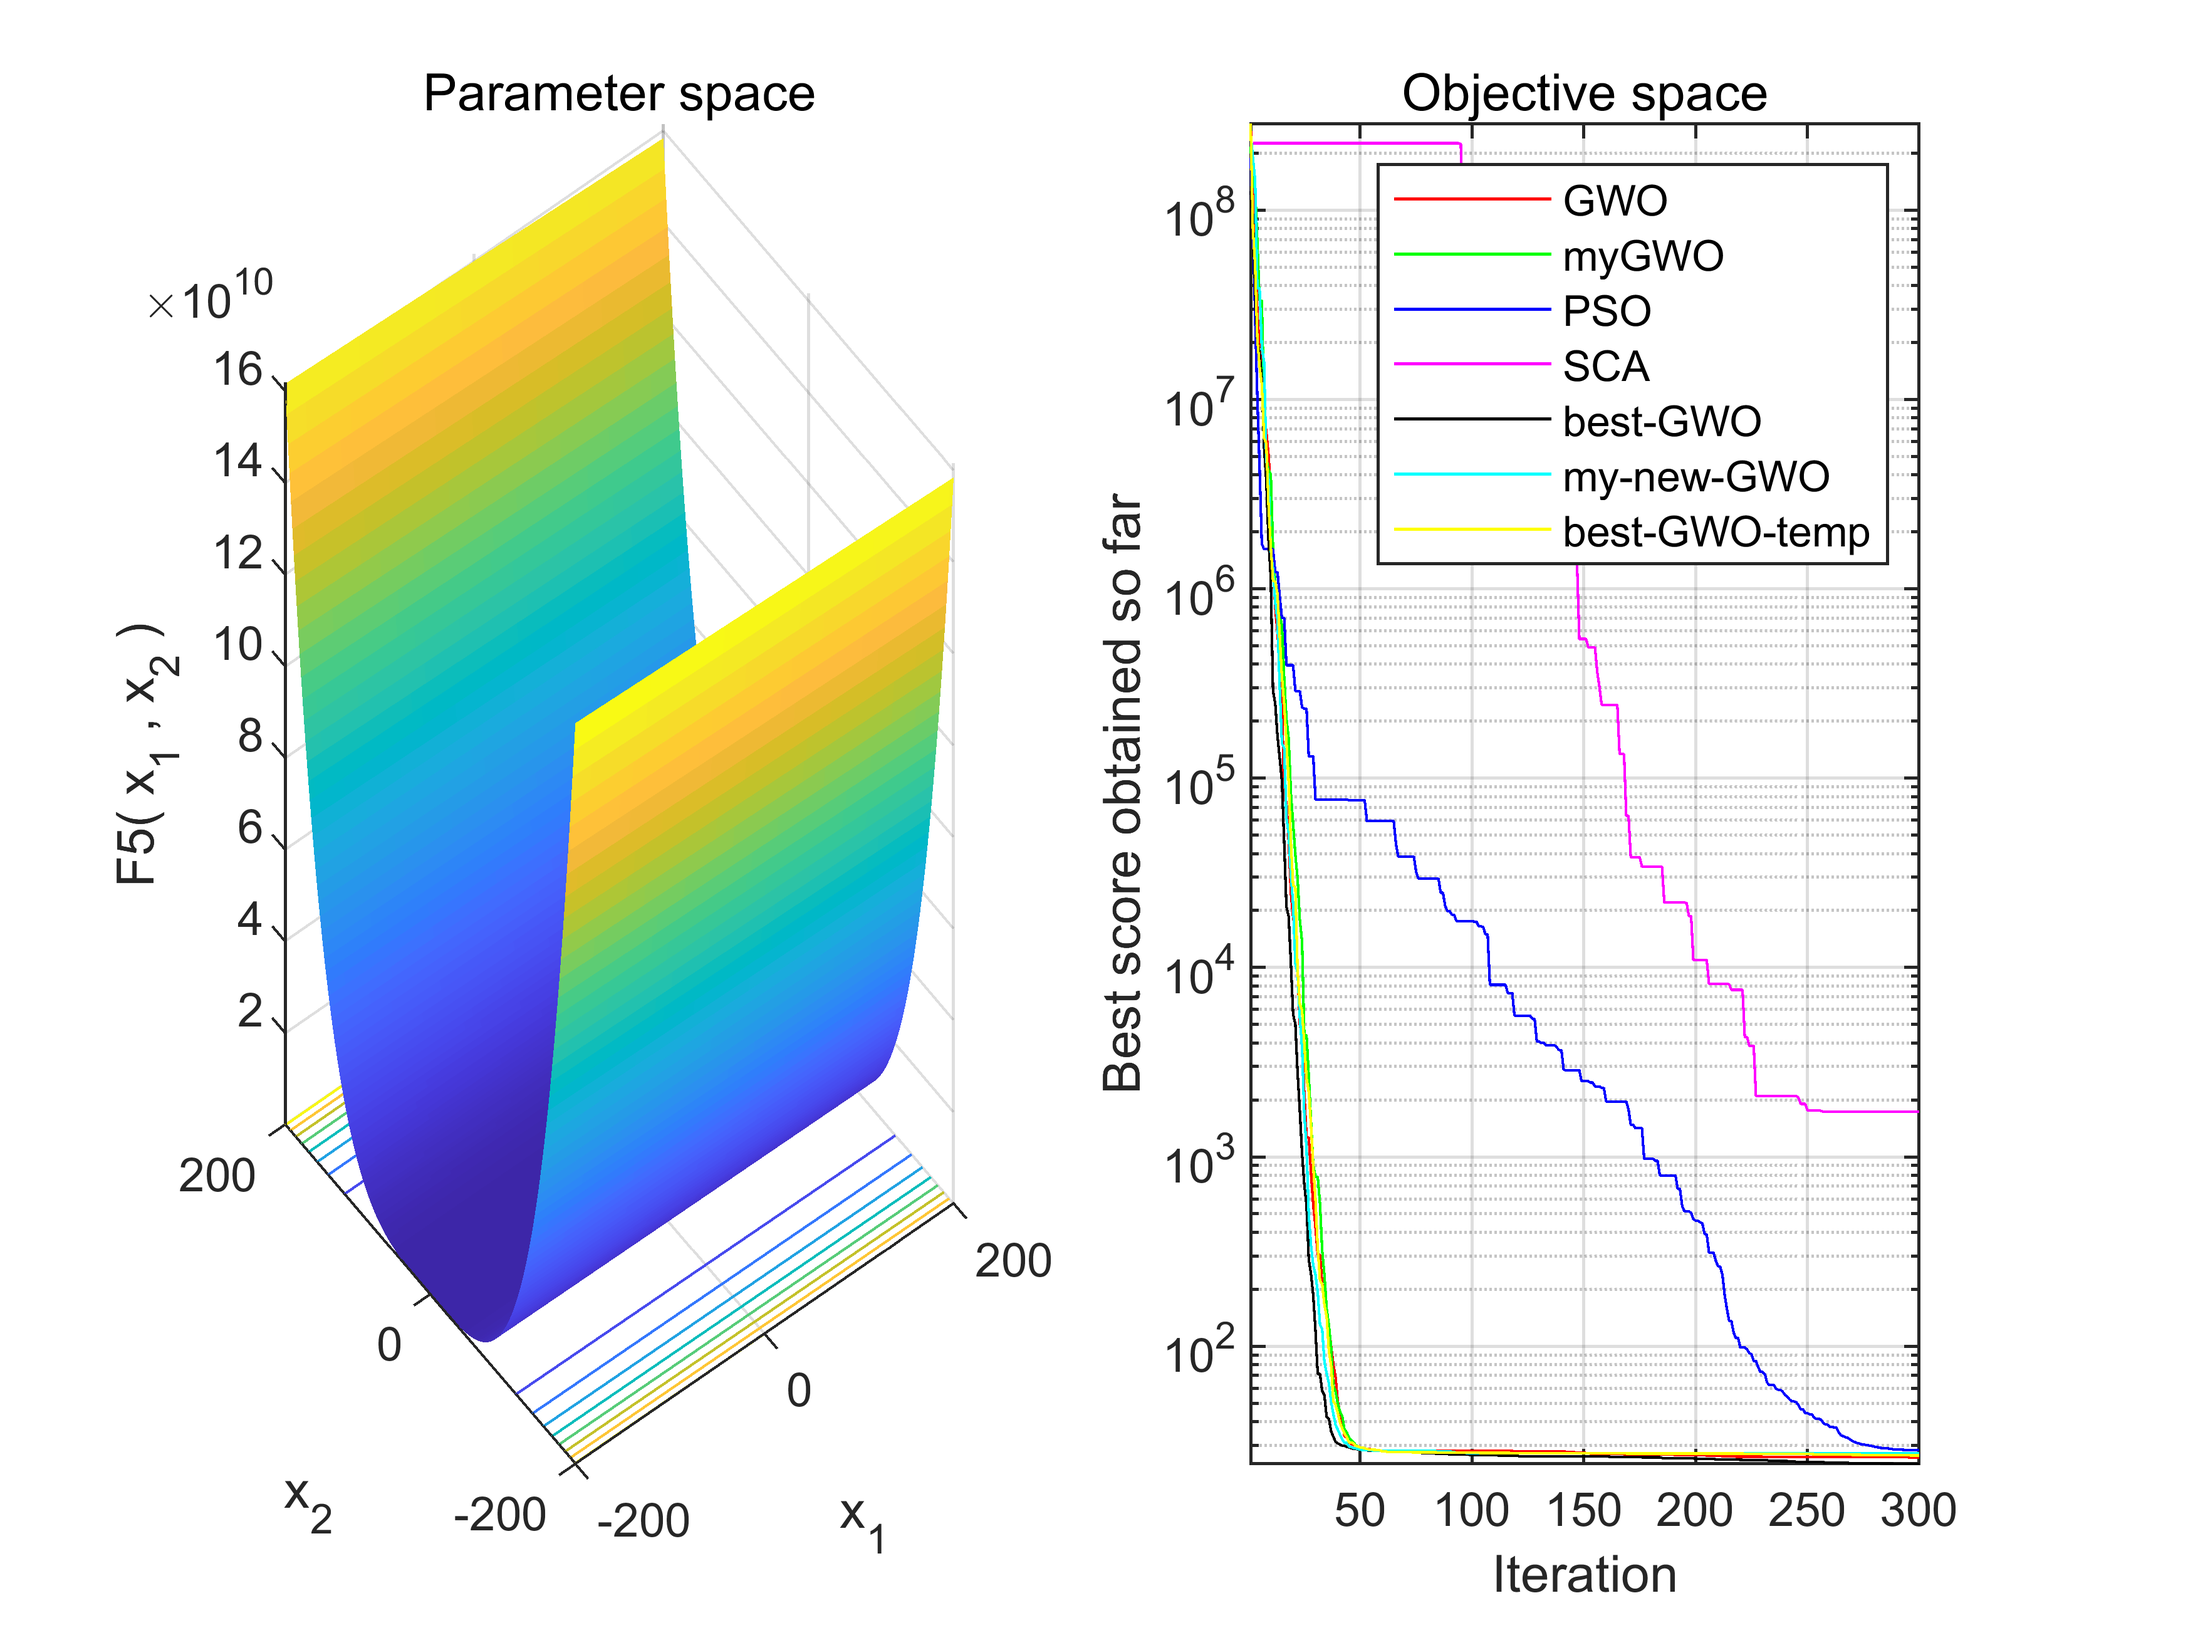
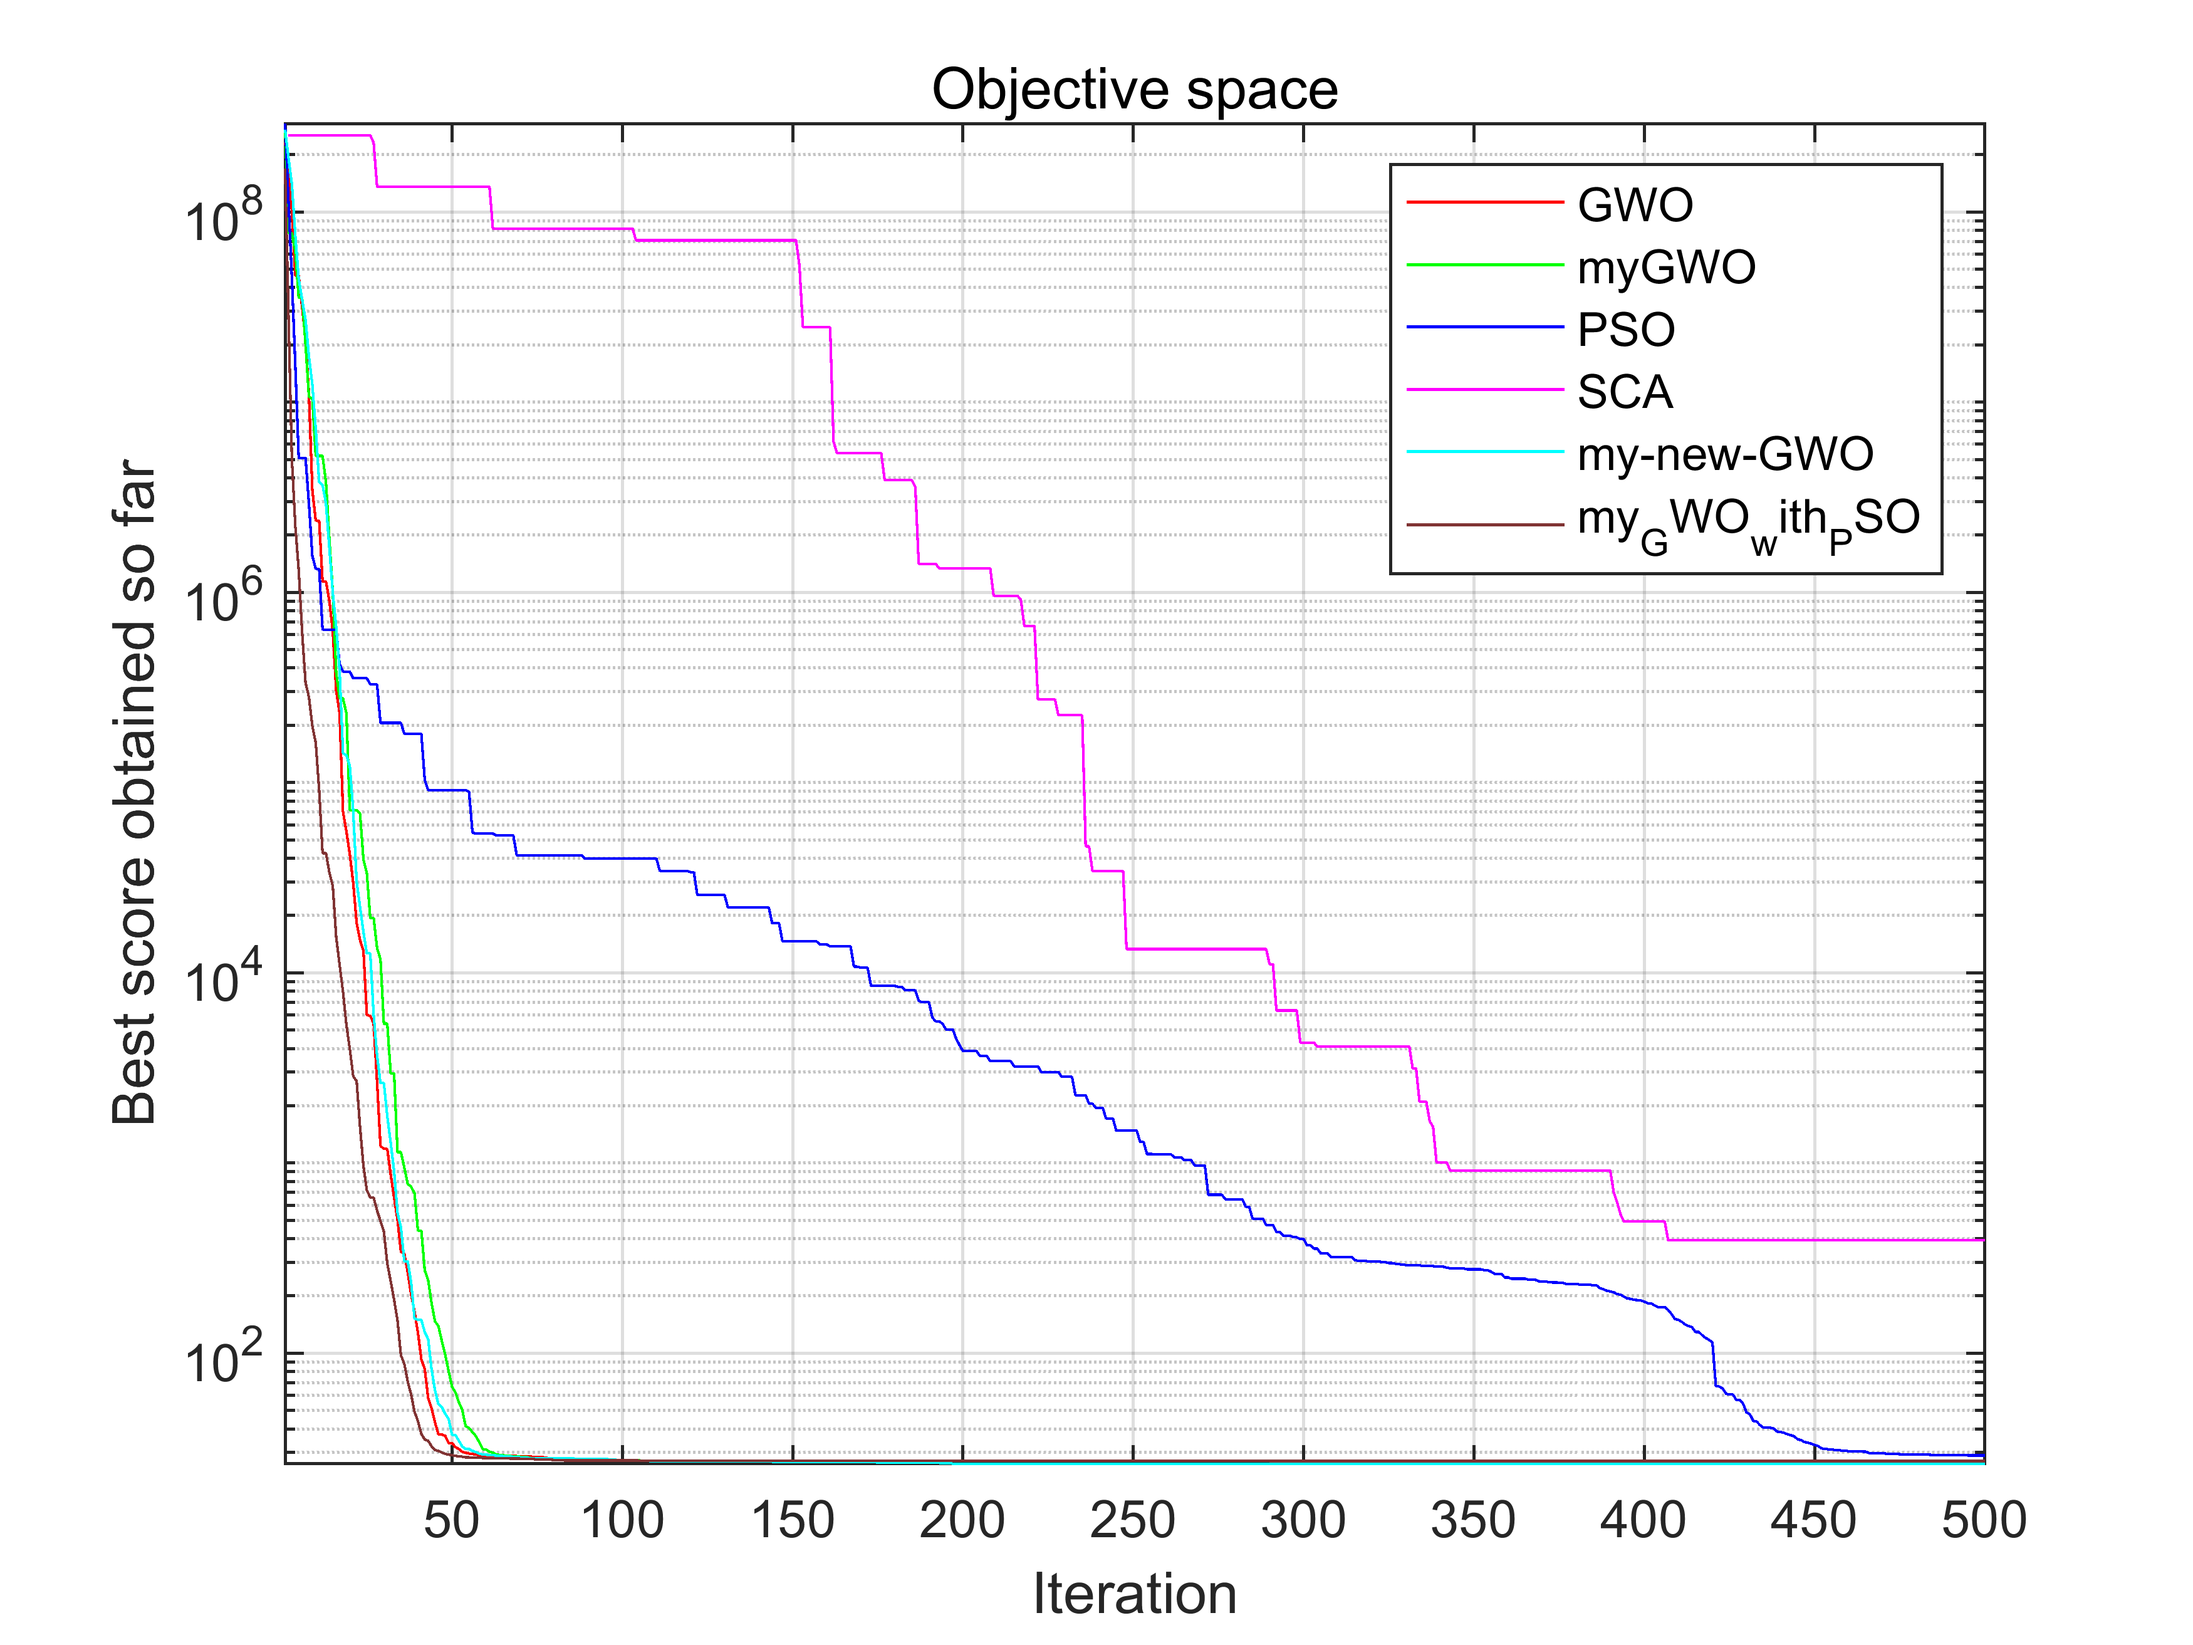
my-new-GWO效果较好

Changed region(s): [[0.0311, 0.0312, 0.9343, 0.9996], [0.0623, 0.2811, 0.0934, 0.3124]]

diff --git a/GWO_original/main.m b/GWO_original/main.m
@@ -37,10 +37,10 @@ for kw = 1:22
     if kw == 17
         continue
     end
-    SearchAgents_no=75; % Number of search agents
+    SearchAgents_no=50; % Number of search agents
     Function_name=strcat('F', num2str(kw)); % Name of the test function that can be from F1 to F23 (Table 1,2,3 in the paper)
 
-    Max_iteration=300; % Maximum numbef of iterations
+    Max_iteration=500; % Maximum numbef of iterations
     
     % Load details of the selected benchmark function
     [lb,ub,dim,fobj]=Get_Functions_details(Function_name);
@@ -52,26 +52,28 @@ for kw = 1:22
     [my_Best_score2,my_Best_pos2,my_GWO_cg_curve2]=IGWO2(dim,SearchAgents_no,Max_iteration,lb,ub,fobj);
     [my_Best_score3,my_Best_pos3,my_GWO_cg_curve3]=my_new_GWO(SearchAgents_no,Max_iteration,lb,ub,dim,fobj);
     [my_Best_score4,my_Best_pos4,my_GWO_cg_curve4]=my_new_GWO_temp(dim,SearchAgents_no,Max_iteration,lb,ub,fobj);
-    figure('Position',[500 500 660 290])
-    fig = figure(Visible="off");
+    [my_Best_score5,my_Best_pos5,my_GWO_cg_curve5]=my_new_GWO_with_PSO(SearchAgents_no,Max_iteration,lb,ub,dim,fobj);
+    %figure('Position',[500 500 660 290])
+    fig = figure(Visible="on");
     % Draw search space
-    subplot(1,2,1);
-    func_plot(Function_name);
-    title('Parameter space')
-    xlabel('x_1');
-    ylabel('x_2');
-    zlabel([Function_name,'( x_1 , x_2 )'])
+%     subplot(1,2,1);
+%     func_plot(Function_name);
+%     title('Parameter space')
+%     xlabel('x_1');
+%     ylabel('x_2');
+%     zlabel([Function_name,'( x_1 , x_2 )'])
     
     %Draw objective space
-    subplot(1,2,2);
+    %subplot(1,2,2);
     semilogy(GWO_cg_curve,'Color','r')
     hold on
     semilogy(my_GWO_cg_curve, 'Color', 'g');
     semilogy(PSO_cg_curve, 'Color', 'b');
     semilogy(cg_curve_SCA, 'Color', 'magenta')
-    semilogy(my_GWO_cg_curve2, 'Color', 'black');
+    %semilogy(my_GWO_cg_curve2, 'Color', 'black');
     semilogy(my_GWO_cg_curve3, 'Color', 'cyan');
-    semilogy(my_GWO_cg_curve4, 'Color', 'yellow');
+    %semilogy(my_GWO_cg_curve4, 'Color', 'yellow');
+    semilogy(my_GWO_cg_curve5, 'Color', [0.5 0.2 0.2]);
     title('Objective space')
     xlabel('Iteration');
     ylabel('Best score obtained so far');
@@ -79,13 +81,14 @@ for kw = 1:22
     axis tight
     grid on
     box on
-    legend('GWO', 'myGWO', 'PSO', 'SCA', 'best-GWO', 'my-new-GWO', 'best-GWO-temp');
+    %legend('GWO', 'myGWO', 'PSO', 'SCA', 'best-GWO', 'my-new-GWO', 'best-GWO-temp', 'my_GWO_with_PSO');
+    legend('GWO', 'myGWO', 'PSO', 'SCA', 'my-new-GWO', 'my_GWO_with_PSO');
     asdas = num2str(kw);
     disp(asdas)
-    file_name = strcat('C:\Users\zlaa\Documents\MATLAB\GWO_original\all_fun\', num2str(kw), '.png');
+    file_name = strcat('C:\Users\28898\OneDrive\Documents\MATLAB\GWO_original\all_fun\', num2str(kw), '.png');
     frame = getframe(fig);
     %imwrite(frame.cdata, file_name, 'png', 600);
-    print(fig, '-dpng', '-r600', strcat('C:\Users\zlaa\Documents\MATLAB\GWO_original\all_fun\', num2str(kw), '.png'))  
+    print(fig, '-dpng', '-r600', strcat('C:\Users\28898\OneDrive\Documents\MATLAB\GWO_original\all_fun\', num2str(kw), '.png'))  
     display(['The best solution obtained by GWO is : ', num2str(Best_pos)]);
     display(['The best optimal value of the objective funciton found by GWO is : ', num2str(Best_score)]);
     disp('-------------------------------')
